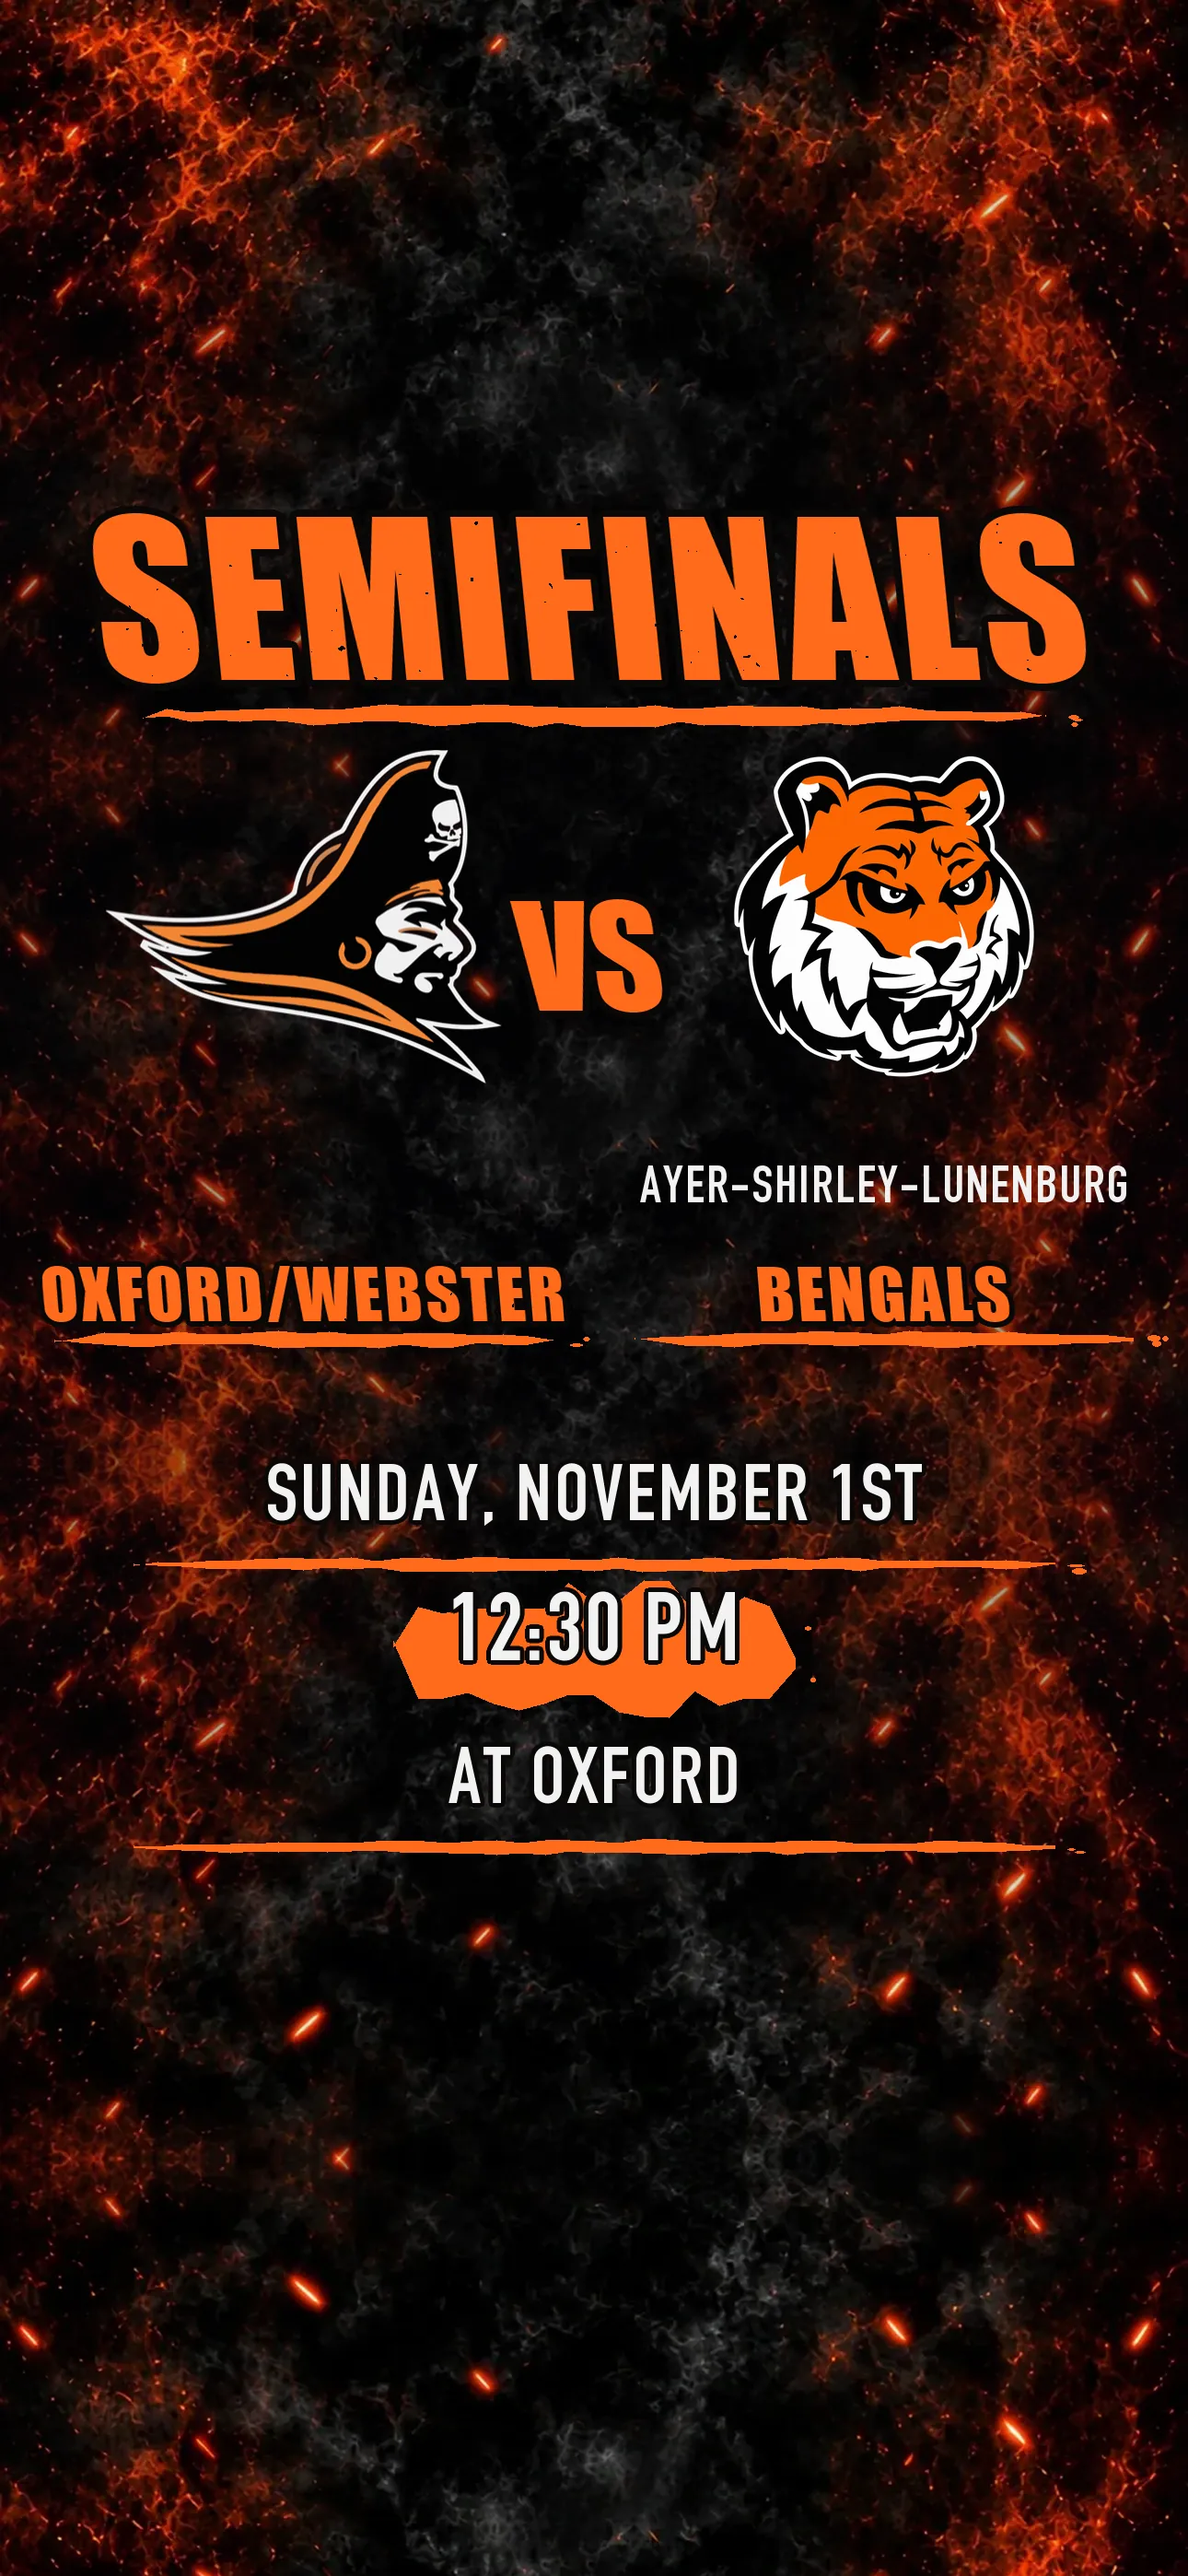
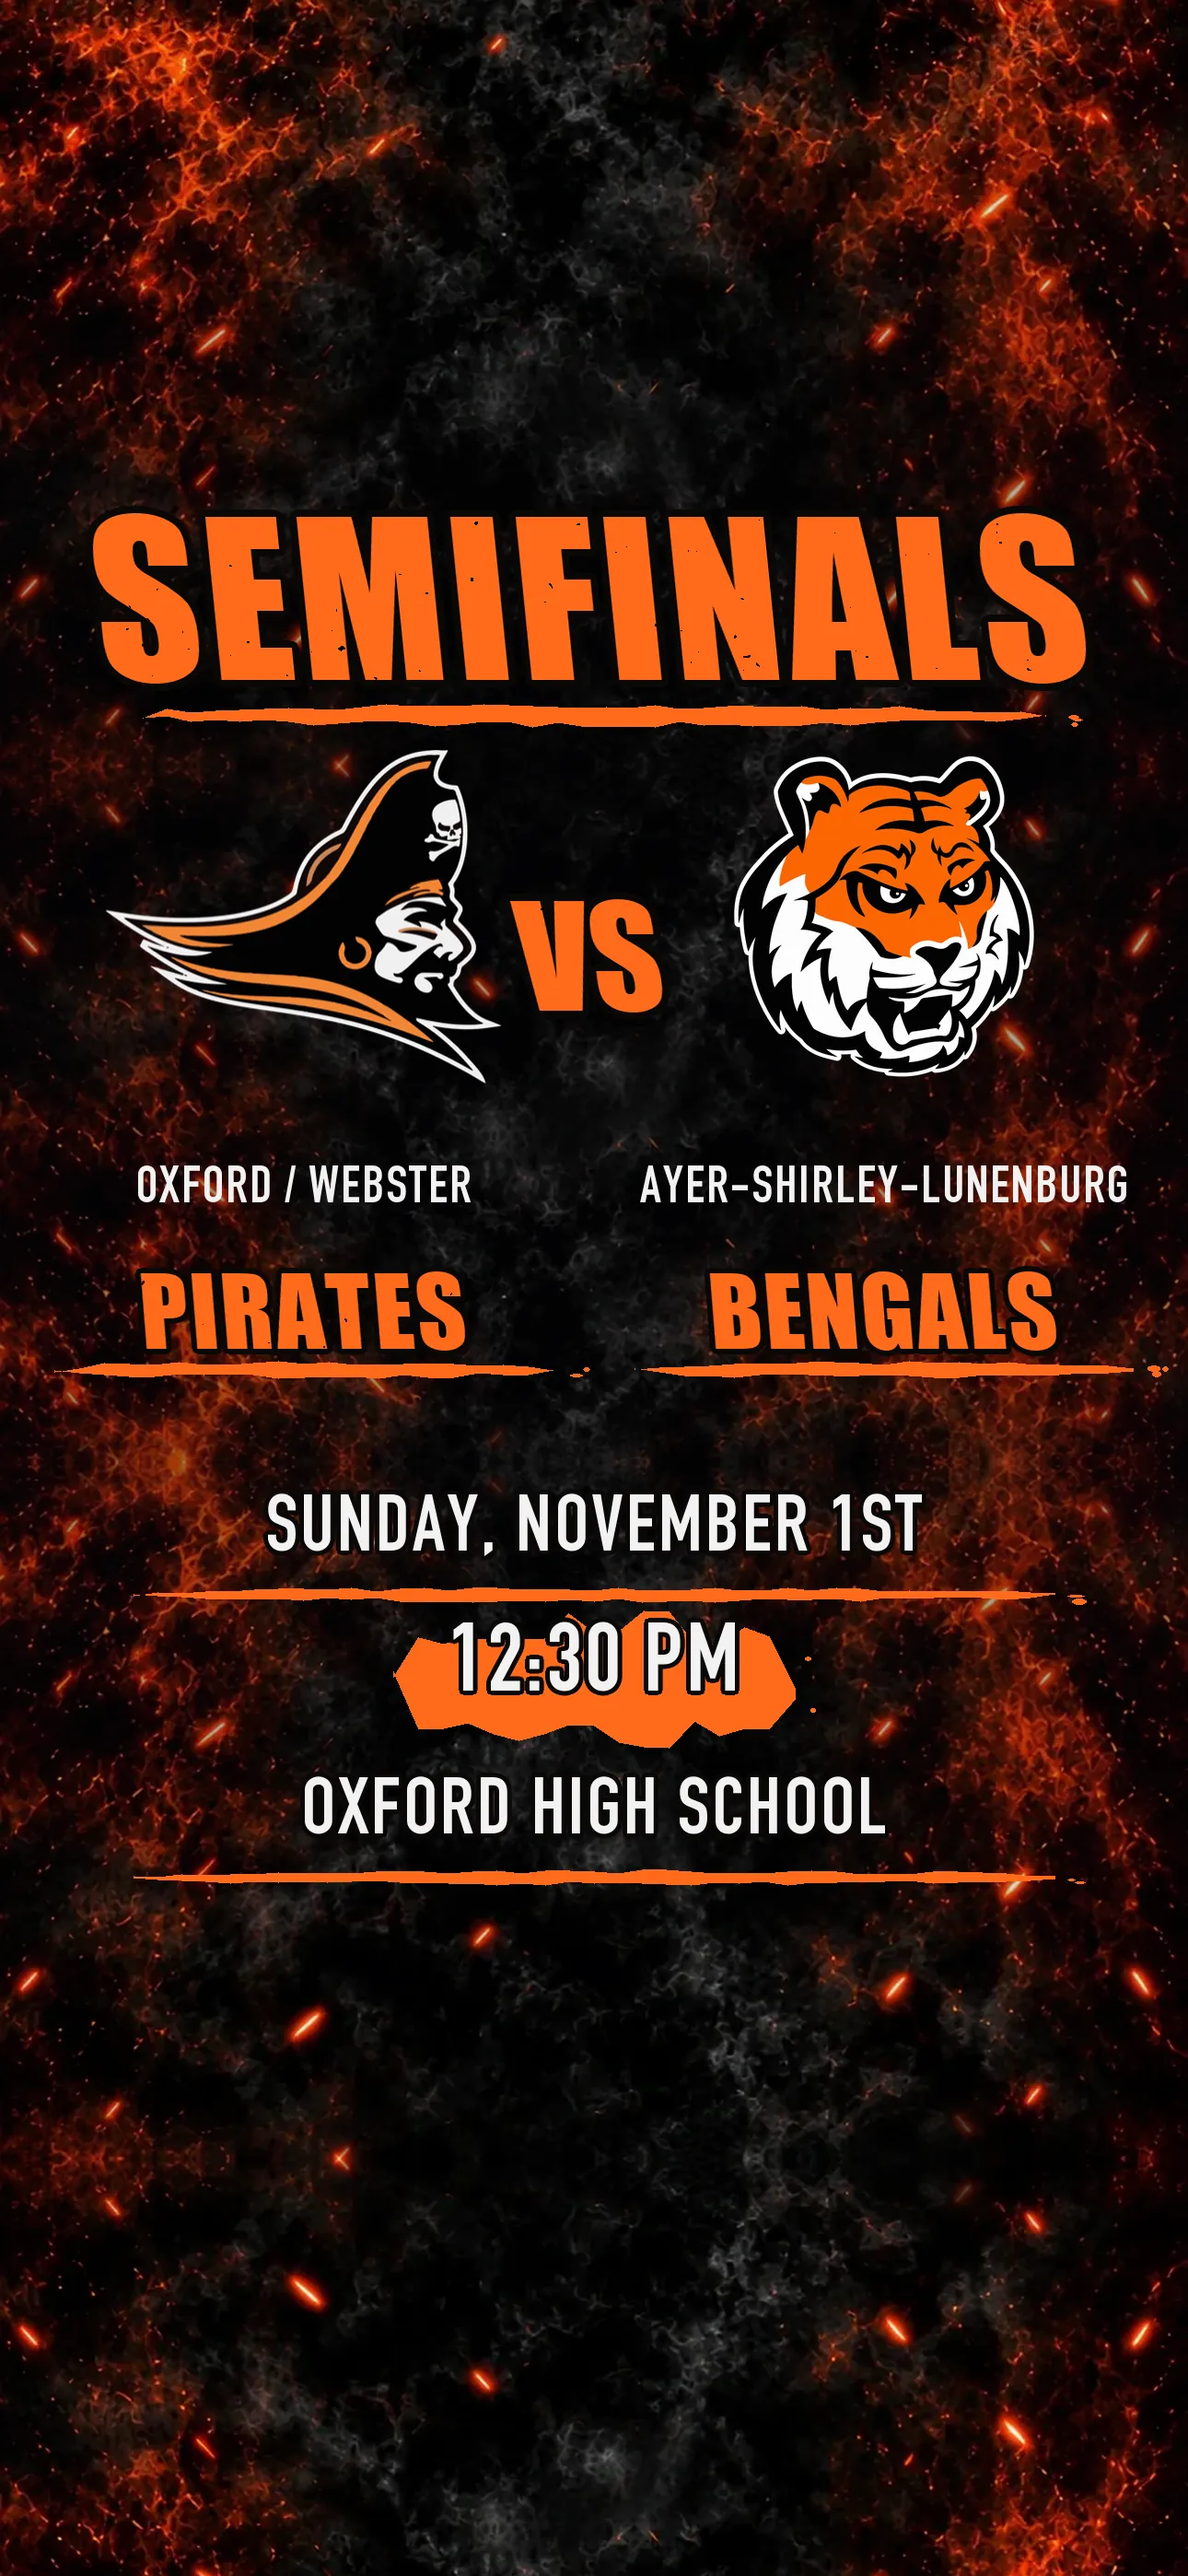
Name the Pirates and Oxford High on the Semifinals flyer
Nathan confirmed both things the app's data couldn't tell me: Oxford/Webster
are the Pirates, and the game is at Oxford High.

Both sides of the flyer now read town-over-mascot the way the Quarterfinals
one did -- OXFORD / WEBSTER over PIRATES against AYER-SHIRLEY-LUNENBURG over
BENGALS -- instead of the left side carrying the town pair alone. The two big
names share one size and the two small lines share another, each sized to
whichever of the pair is tightest, so neither side towers over the other.

The venue line is now OXFORD HIGH SCHOOL, matching how the Quarterfinals
flyer named Lunenburg Middle School rather than just the town.

Also corrects the same fact in the app itself: PLAYOFF_GAME_INFO still said
place 'Oxford', which is what This Week and the Playoff Picture read, so the
flyer and the app would have disagreed about where to go. That mismatch has
bitten before -- the Quarterfinals flyer said Tue Oct 27 6:30 while the
Schedule still said Wed Oct 28 TBD.

Content band moved to y 452-2067; re-checked the cover-crop at 375x812,
360x800, 375x667, 390x664, 320x568, 430x932 and 412x915, all clear.

Changed region(s): [[0.031, 0.4356, 0.9302, 0.7468]]

diff --git a/dev2/index.html b/dev2/index.html
@@ -26,7 +26,7 @@
      (Nathan, 2026-08-24: saw the drill's entry screen appearing inline at
      the bottom of the Schedule page). Bump this by hand every time
      css/styles.css changes, same discipline as BUILD_V/CACHE_NAME below. -->
-<link rel="stylesheet" href="css/styles.css?v=20261031b">
+<link rel="stylesheet" href="css/styles.css?v=20261031c">
 
 <!-- PWA / Add to Home Screen support -->
 <link rel="manifest" href="manifest.json">
@@ -2636,7 +2636,7 @@ if (window.ResizeObserver) {
   // has (or vice versa) throws partway through and silently breaks
   // whatever wiring hadn't run yet. Bump this whenever a deploy needs to
   // force every client to fetch fresh copies.
-  const BUILD_V = '20261031b';
+  const BUILD_V = '20261031c';
   const withV = (path) => `${path}?v=${BUILD_V}`;
   // Nathan: "when you do the 5 clicks on the logo and see the coach
   // dashboard, it should show an updated version number so I know it

diff --git a/dev2/js/standings.js b/dev2/js/standings.js
@@ -1256,7 +1256,7 @@
     { season: 2026, division: 1, teams: ['Hudson', 'Tewksbury'], date: '2026-10-28', time: '18:30', place: 'Hudson', score: [0, 14] },
     // Milford (#1) hosts the Hudson/Tewksbury winner this Sunday; no time or place passed along yet
     { season: 2026, division: 1, teams: ['Milford'], date: '2026-11-01' },
-    { season: 2026, division: 1, teams: ['Oxford/Webster'], date: '2026-11-01', time: '12:30', place: 'Oxford' },
+    { season: 2026, division: 1, teams: ['Oxford/Webster'], date: '2026-11-01', time: '12:30', place: 'Oxford High School' },
     { season: 2026, division: 2, teams: ['Worcester Vikings', 'Leicester/Spencer'], date: '2026-11-01', time: '10:30' },
     { season: 2026, division: 2, teams: ['Leominster', 'Wachusett'], date: '2026-11-01', time: '10:30' },
   ];

diff --git a/dev2/sw.js b/dev2/sw.js
@@ -15,7 +15,7 @@
 // missing layout) even though the live site is fully up to date. Bumping
 // this forces a fresh install + activate, which deletes the old cache
 // (see the activate handler) and re-caches the current shell files.
-const CACHE_NAME = 'bengals-shell-20261031b';
+const CACHE_NAME = 'bengals-shell-20261031c';
 const SHELL_FILES = [
   './index.html',
   './css/styles.css',
